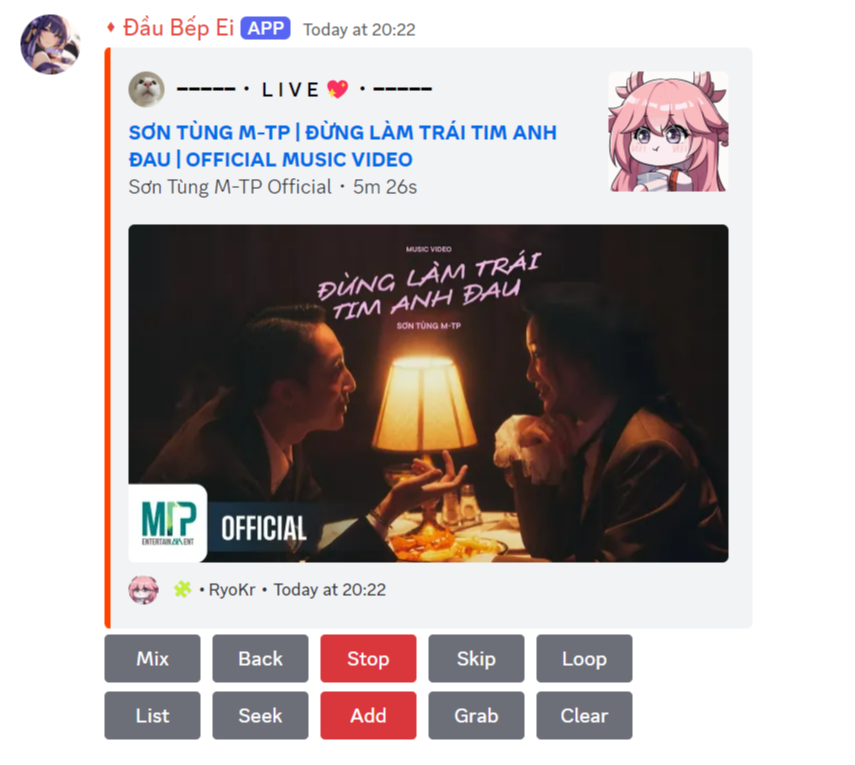
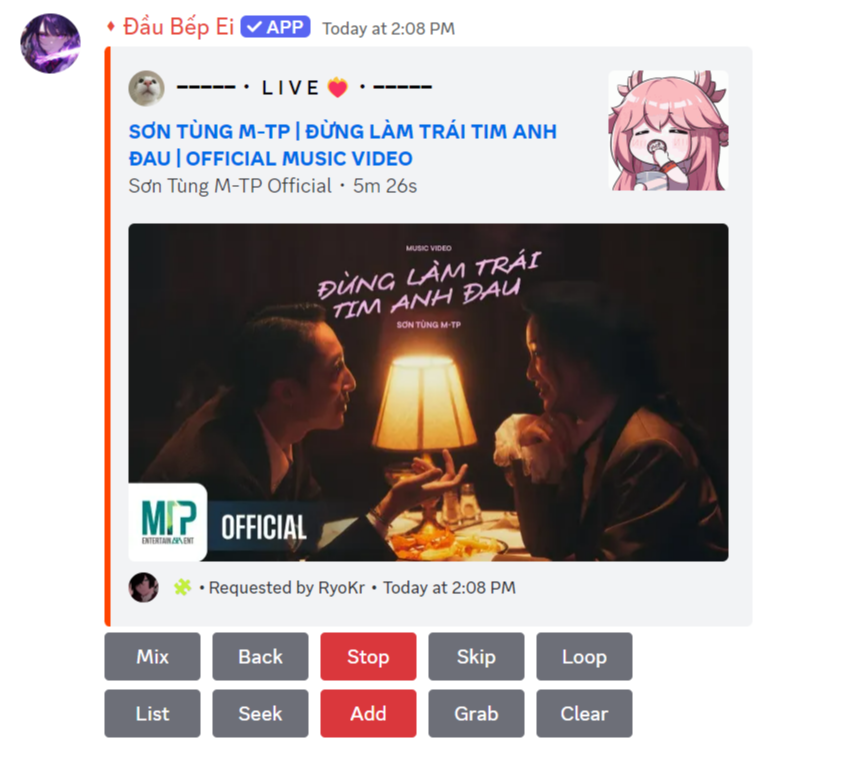
Meow

diff --git a/Function/index.js b/Function/index.js
@@ -63,6 +63,8 @@ async function handleModalSubmit(client, interaction) {
       await handleAddModal(client, interaction, embed)
    } else if (interaction.customId === 'playerSeekModal') {
       await handleSeekModal(interaction, queue, embed)
+   } else if (interaction.customId === 'playerVolumeModal') {
+      await handleVolumeModal(client, interaction, queue, embed)
    }
 }
 async function handleAddModal(client, interaction, embed) {
@@ -76,7 +78,7 @@ async function handleAddModal(client, interaction, embed) {
       const msg = await interaction.reply({ embeds: [embed] })
 
       await playMusic(client, interaction, songName)
-      deleteMessage(msg, 10000)
+      deleteMessage(msg, 100)
    }
 }
 async function handleSeekModal(interaction, queue, embed) {
@@ -92,28 +94,28 @@ async function handleSeekModal(interaction, queue, embed) {
       embed.setDescription(`Seeked to ${value}`)
    }
 
-   deleteMessage(await interaction.reply({ embeds: [embed] }), 10000)
+   deleteMessage(await interaction.reply({ embeds: [embed] }), 5000)
 }
-// async function handleVolumeModal(client, interaction, queue, embed) {
-//    const maxVol = client.config.player.maxVol;
-//    const vol = parseInt(interaction.fields.getTextInputValue('playerVolumeInput'));
+async function handleVolumeModal(client, interaction, queue, embed) {
+   const maxVol = client.config.player.maxVol;
+   const vol = parseInt(interaction.fields.getTextInputValue('playerVolumeInput'));
 
-//    if (!queue || !queue.playing) {
-//       embed.setDescription('No music playing');
-//    } else if (queue.volume === vol) {
-//       embed.setDescription(`Volume is already set to ${vol}`);
-//    } else if (!vol || vol < 1 || vol > maxVol) {
-//       embed.setDescription(`Type a number between 1 and ${maxVol}`);
-//    } else {
-//       await queue.setVolume(vol);
-//       embed.setDescription(`Set the volume to ${vol}`);
-//    }
+   if (!queue || !queue.playing) {
+      embed.setDescription('No music playing');
+   } else if (queue.volume === vol) {
+      embed.setDescription(`Volume is already set to ${vol}`);
+   } else if (!vol || vol < 1 || vol > maxVol) {
+      embed.setDescription(`Type a number between 1 and ${maxVol}`);
+   } else {
+      await queue.setVolume(vol);
+      embed.setDescription(`Set the volume to ${vol}`);
+   }
 
-//    deleteMessage(await interaction.reply({ embeds: [embed] }), 10000);
-// }
+   deleteMessage(await interaction.reply({ embeds: [embed] }), 10000);
+}
 
 function getStatus() {
-   return Math.random() < 0.6 ? 'online' : 'idle'
+   return Math.random() < 0.7 ? 'online' : 'idle'
 }
 
 // Play
@@ -240,12 +242,23 @@ function generateQueuePage(client, queue, start, page, total, pageLength, songLi
 }
 function queueActionRow(page, total) {
    return new ActionRowBuilder().addComponents(
-      new ButtonBuilder({ custom_id: 'queueFirst', label: 'First Page' }).setStyle(2).setDisabled(page === 1),
-      new ButtonBuilder({ custom_id: 'queueBack', label: 'Previous Page' }).setStyle(2).setDisabled(page === 1),
-      new ButtonBuilder({ custom_id: 'queueNext', label: 'Next Page' }).setStyle(2).setDisabled(page === total),
-      new ButtonBuilder({ custom_id: 'queueLast', label: 'Last Page' }).setStyle(2).setDisabled(page === total),
-      new ButtonBuilder({ custom_id: 'queueClose', label: 'Close' }).setStyle(4)
+      new ButtonBuilder({ custom_id: 'queueFirst', label: 'First Page', style: 2 }).setDisabled(page === 1),
+      new ButtonBuilder({ custom_id: 'queueBack', label: 'Previous Page', style: 2 }).setDisabled(page === 1),
+      new ButtonBuilder({ custom_id: 'queueNext', label: 'Next Page', style: 2 }).setDisabled(page === total),
+      new ButtonBuilder({ custom_id: 'queueLast', label: 'Last Page', style: 2 }).setDisabled(page === total),
+      new ButtonBuilder({ custom_id: 'queueClose', label: 'Close', style: 4 }),
    )
+}
+
+function getGuilds(client) {
+   const guildNames = client.guilds.cache.map(guild => guild.name).join('\n')
+   fs.writeFile('guilds.txt', guildNames, (error) => {
+      if (error) {
+         console.log('Error writing to file:', error)
+      } else {
+         console.log('Guild names have been written to guilds.txt')
+      }
+   })
 }
 
 function printData(data) {

diff --git a/Events/Player/playSong.js b/Events/Player/playSong.js
@@ -12,24 +12,24 @@ module.exports = async (client, queue, song) => {
             .setColor(client.config.player.embedColor)
             .setThumbnail(client.config.player.embedGif)
             .setImage(song.thumbnail)
-            .setAuthor({ name: '─────・ L I V E 💖・─────', iconURL: queue.textChannel.guild.iconURL() })
+            .setAuthor({ name: '─────・ L I V E ❤🔥・─────', iconURL: queue.textChannel.guild.iconURL() })
             .setDescription(`**[${song.name}](${song.url})**\n${song.uploader.name}・${duration}`)
             .setFooter({ text: `🧩 • ${username}`, iconURL: avatar })
             .setTimestamp()
 
          const row1 = new ActionRowBuilder().addComponents(
-            new ButtonBuilder({ custom_id: 'playerShuf', label: 'Mix' }).setStyle(2),
-            new ButtonBuilder({ custom_id: 'playerPrev', label: 'Back' }).setStyle(2),
-            new ButtonBuilder({ custom_id: 'playerStop', label: 'Stop' }).setStyle(4),
-            new ButtonBuilder({ custom_id: 'playerSkip', label: 'Skip' }).setStyle(2),
-            new ButtonBuilder({ custom_id: 'playerLoop', label: 'Loop' }).setStyle(2),
+            new ButtonBuilder({ custom_id: 'playerShuf', label: 'Mix', style: 2 }),
+            new ButtonBuilder({ custom_id: 'playerPrev', label: 'Back', style: 2 }),
+            new ButtonBuilder({ custom_id: 'playerStop', label: 'Stop', style: 4 }),
+            new ButtonBuilder({ custom_id: 'playerSkip', label: 'Skip', style: 2 }),
+            new ButtonBuilder({ custom_id: 'playerLoop', label: 'Loop', style: 2 }),
          )
          const row2 = new ActionRowBuilder().addComponents(
-            new ButtonBuilder({ custom_id: 'playerQueue', label: 'List' }).setStyle(2),
-            new ButtonBuilder({ custom_id: 'playerSeek', label: 'Seek' }).setStyle(2),
-            new ButtonBuilder({ custom_id: 'playerAdd', label: 'Add' }).setStyle(4),
-            new ButtonBuilder({ custom_id: 'playerGrab', label: 'Grab' }).setStyle(2),
-            new ButtonBuilder({ custom_id: 'playerClear', label: 'Clear' }).setStyle(2),
+            new ButtonBuilder({ custom_id: 'playerQueue', label: 'List', style: 2 }),
+            new ButtonBuilder({ custom_id: 'playerSeek', label: 'Seek', style: 2 }),
+            new ButtonBuilder({ custom_id: 'playerAdd', label: 'Add', style: 4 }),
+            new ButtonBuilder({ custom_id: 'playerGrab', label: 'Grab', style: 2 }),
+            new ButtonBuilder({ custom_id: 'playerClear', label: 'Clear', style: 2 }),
          )
 
          const currentMessage = await queue.textChannel.send({ embeds: [embed], components: [row1, row2] }).catch(() => {})
@@ -41,7 +41,7 @@ module.exports = async (client, queue, song) => {
             const actions = {
                playerAdd: loadButton('../Events/Button/add', interaction),
                playerClear: loadButton('../Events/Button/clear', queue, embed, username, avatar),
-               playerGrab: loadButton('../Events/Button/grab', client, queue, song, embed, username, avatar),
+               playerGrab: loadButton('../Events/Button/grab', client, queue, song, embed, username, avatar, duration),
                playerLoop: loadButton('../Events/Button/loop', queue, embed, username, avatar),
                playerPrev: loadButton('../Events/Button/previous', queue, embed, username, avatar),
                playerQueue: loadButton('../Events/Button/queue', client, queue, embed, username, avatar),

diff --git a/Commands/search.js b/Commands/search.js
@@ -39,7 +39,7 @@ module.exports = {
 
             const buttons = songs.map((song, i) =>
                new ButtonBuilder()
-                  .setCustomId(`${i + 1}`)
+                  .setCustomId(`search${i + 1}`)
                   .setLabel(`${i + 1}`)
                   .setStyle(2)
             )
@@ -48,20 +48,19 @@ module.exports = {
             for (let i = 0; i < buttons.length; i += 5) {
                rows.push(new ActionRowBuilder().addComponents(buttons.slice(i, i + 5)))
             }
-            const close = new ActionRowBuilder().addComponents(new ButtonBuilder().setLabel('Close').setStyle('Danger').setCustomId('close'))
+            const close = new ActionRowBuilder().addComponents(
+               new ButtonBuilder().setLabel('Close').setStyle('Danger').setCustomId('searchClose')
+            )
 
             const message = await interaction.reply({ embeds: [embed], components: [...rows, close] })
 
             const filter = (i) => i.user.id === interaction.user.id
-            const listener = message.createMessageComponentCollector({ filter, time: 10000 })
+            const listener = message.createMessageComponentCollector({ filter, time: 30000 })
 
             listener.on('collect', async (button) => {
-               if (button.customId === 'close') {
-                  deleteMessage(message, 100)
+               if (button.customId === 'searchClose') {
                   listener.stop()
-               } else {
-                  deleteMessage(message, 100)
-                  
+               } else if (button.customId.include('search')) {
                   await client.player.play(interaction.member.voice.channel, results[Number(button.customId) - 1].url, {
                      member: interaction.member,
                      textChannel: interaction.channel,
@@ -69,6 +68,7 @@ module.exports = {
                   })
                   listener.stop()
                }
+               deleteMessage(message, 100)
             })
 
             listener.on('end', async () => {

diff --git a/Commands/filter.js b/Commands/filter.js
@@ -12,7 +12,6 @@ module.exports = {
          const queue = client.player.getQueue(interaction.guild.id)
          const embed = new EmbedBuilder()
             .setColor(client.config.player.embedColor)
-            //.setThumbnail(client.config.player.embedGif)
             .setFooter({ text: `🧩 • ${capFirstChar(interaction.user.globalName)}`, iconURL: interaction.user.avatarURL() })
             .setTimestamp()
 
@@ -22,7 +21,7 @@ module.exports = {
             return
          }
 
-         const filterState = (filter) => (queue.filters.has(filter) ? 'On' : 'Off')
+         const filterState = (filter) => (queue.filters.has(filter) ? 'On ✔' : 'Off ❌')
          const description = () =>
             `\`\`\`3D・${filterState('3d')}\n` +
             `Stereo・${filterState('haas')}\n` +
@@ -36,7 +35,7 @@ module.exports = {
             new ButtonBuilder().setCustomId('haas').setLabel('Stereo').setStyle('Secondary'),
             new ButtonBuilder().setCustomId('vaporwave').setLabel('Slowed').setStyle('Secondary'),
             new ButtonBuilder().setCustomId('nightcore').setLabel('Nightcore').setStyle('Secondary'),
-            new ButtonBuilder().setCustomId('close').setLabel('Close').setStyle('Danger')
+            new ButtonBuilder().setCustomId('filterClose').setLabel('Close').setStyle('Danger')
          )
 
          const message = await interaction.reply({ embeds: [embed], components: [row] })
@@ -44,7 +43,7 @@ module.exports = {
          const collector = message.createMessageComponentCollector({ filter, time: 120000 })
 
          collector.on('collect', async (button) => {
-            if (button.customId === 'close' || !['3d', 'haas', 'vaporwave', 'nightcore'].includes(button.customId)) {
+            if (button.customId === 'filterClose' || !['3d', 'haas', 'vaporwave', 'nightcore'].includes(button.customId)) {
                collector.stop()
                return
             }

diff --git a/Events/Button/grab.js b/Events/Button/grab.js
@@ -1,26 +1,23 @@
 const { EmbedBuilder } = require('discord.js')
-const { formatTime } = require('../../Function')
+const { formatTime, deleteMessage } = require('../../Function')
 
-module.exports = async (client, queue, song, embed, username, avatar) => {
+module.exports = async (client, queue, song, embed, username, avatar, duration) => {
    const grabEmbed = new EmbedBuilder()
       .setColor(client.config.player.embedColor)
       .setImage(song.thumbnail)
       .setAuthor({ name: '─────・ I N F O R M A T I O N 💖・─────', iconURL: queue.textChannel.guild.iconURL() })
-      .setDescription(`**[${song.name}](${song.url})**\n${song.uploader.name}・${queue.formattedCurrentTime} / ${song.formattedDuration}`)
-      // .addFields(
-      //    { name: 'Author', value: `${song.uploader.name}`, inline: true },
-      //    { name: 'Duration', value: `${duration}`, inline: true },
-      //    { name: 'Current Time', value: `${formatTime(queue.formattedCurrentTime)}`, inline: true },
-      // )
+      .setDescription(`**[${song.name}](${song.url})**\n${song.uploader.name}・${duration}・Current ${formatTime(queue.formattedCurrentTime)}`)
       .setFooter({ text: `🌱 • ${username}`, iconURL: avatar })
       .setTimestamp()
 
-   await queue.textChannel.send({ embeds: [grabEmbed] })
-   embed.setFooter({ text: `💽 • Song Revealed • ${username}`, iconURL: avatar })
+   
+   deleteMessage(await queue.textChannel.send({ embeds: [grabEmbed] }), 40000)
 
-   const channel = client.channels.cache.get('1235972414287118397');
+   const channel = client.channels.cache.get('1235972414287118397')
    if (!channel) {
       return
    }
-   await channel.send({ embeds: [grabEmbed] });
+   await channel.send({ embeds: [grabEmbed] })
+
+   embed.setFooter({ text: `🥝 • Song Revealed • ${username}`, iconURL: avatar })
 }

diff --git a/config.js b/config.js
@@ -31,9 +31,8 @@ module.exports = {
       embedColor: process.env.color || 'ff4400',
       embedGif: process.env.gif || 'https://cdn.discordapp.com/attachments/1236634193019277322/1248996386532233248/mikogif.gif?ex=6665b207&is=66646087&hm=e3373b433b6a9ca9b814592f175c4ebfd82c6e10d63348289675a8cba6d04c2c&',
 
-      maxVol: 200,
-      filter: '',
-      dj: '1229808909238407249',
+      maxVol: process.env.maxvol || 200,
+      dj: process.env.dj || '1229808909238407249',
    },
 
    voice: {

diff --git a/Events/Button/queue.js b/Events/Button/queue.js
@@ -50,9 +50,8 @@ module.exports = async (client, queue, embed, username, avatar) => {
          await queueMessage.edit({ components: [] }).catch(() => {})
       })
 
-      embed.setFooter({ text: `💽 • Queue Revealed • ${username}`, iconURL: avatar })
+      embed.setFooter({ text: `🌸 • Queue Revealed • ${username}`, iconURL: avatar })
    } else {
-      
       embed.setFooter({ text: `💽 • Queue Empty • ${username}`, iconURL: avatar })
    }
 }

diff --git a/Events/Button/loop.js b/Events/Button/loop.js
@@ -1,5 +1,5 @@
 module.exports = async (queue, embed, username, avatar) => {
    await queue.setRepeatMode(queue.repeatMode === 2 ? 0 : queue.repeatMode + 1)
    const loopMode = ['Loop off', 'Loop track', 'Loop queue']
-   embed.setFooter({ text: `🥝 • ${loopMode[queue.repeatMode]} • ${username}`, iconURL: avatar })
+   embed.setFooter({ text: `🥕 • ${loopMode[queue.repeatMode]} • ${username}`, iconURL: avatar })
 }

diff --git a/Events/Button/clear.js b/Events/Button/clear.js
@@ -1,7 +1,7 @@
 module.exports = async (queue, embed, username, avatar) => {
    if (queue.songs.length > 1) {
       queue.songs = []
-      embed.setFooter({ text: `💽 • Queue Cleared • ${username}`, iconURL: avatar })
+      embed.setFooter({ text: `🌸 • Queue Cleared • ${username}`, iconURL: avatar })
    } else {
       embed.setFooter({ text: `💽 • Queue Empty • ${username}`, iconURL: avatar })
    }

diff --git a/Events/Button/skip.js b/Events/Button/skip.js
@@ -1,5 +1,5 @@
 module.exports = async (queue, embed, username, avatar) => {
    await queue.skip().catch(() => {
-      embed.setFooter({ text: `🥑 • No song • ${username}`, iconURL: avatar })
+      embed.setFooter({ text: `🧀 • No song • ${username}`, iconURL: avatar })
    })
 }

diff --git a/CONTRIBUTING.md b/CONTRIBUTING.md
@@ -2,6 +2,6 @@
 
 **The issue tracker is only for bug reports and enhancement suggestions. If you have a question, please ask it in the [Discord server](https://discord.gg/fTuGFk9ayG) instead of opening an issue – you will get redirected there anyway.**
 
-If you wish to contribute to the discord.js codebase or documentation, feel free to fork the repository and submit a
-pull request. We use ESLint to enforce a consistent coding style, so having that set up in your editor of choice
-is a great boon to your development process.
+> If you wanna help improve the Bot, fix spelling or design Errors or if possible even code errors, you may create PULL REQUESTS.
+> Please consider, that [**ryokr**](https://github.com/ryokr) is the main Developer of this Bot, everyone else helped just once or sometimes more often.
+> Thanks to anyone who considers helping me :3.

diff --git a/README.md b/README.md
@@ -117,9 +117,3 @@ node index.js
 
 > If you consider using this Bot, make sure to credit me ><.
 > Example: `From [ryohuy2410](https://discord.gg/fTuGFk9ayG) with luv, meowed by [modifier/your Name](<url>)` :3.
-
-## Contributing
-
-> If you wanna help improve the Bot, fix spelling or design Errors or if possible even code errors, you may create PULL REQUESTS.
-> Please consider, that [**ryokr**](https://github.com/ryokr) is the main Developer of this Bot, everyone else helped just once or sometimes more often.
-> Thanks to anyone who considers helping me :3.
